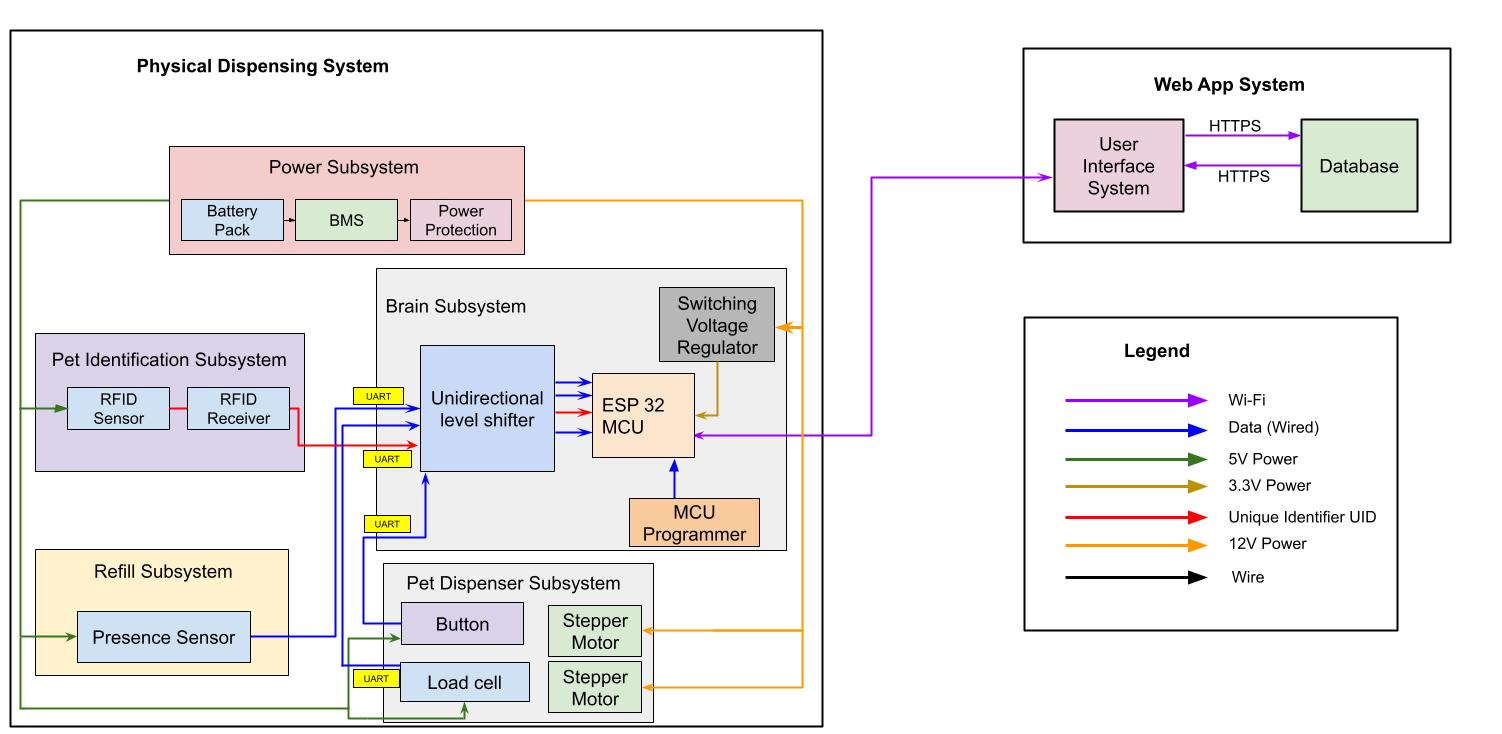
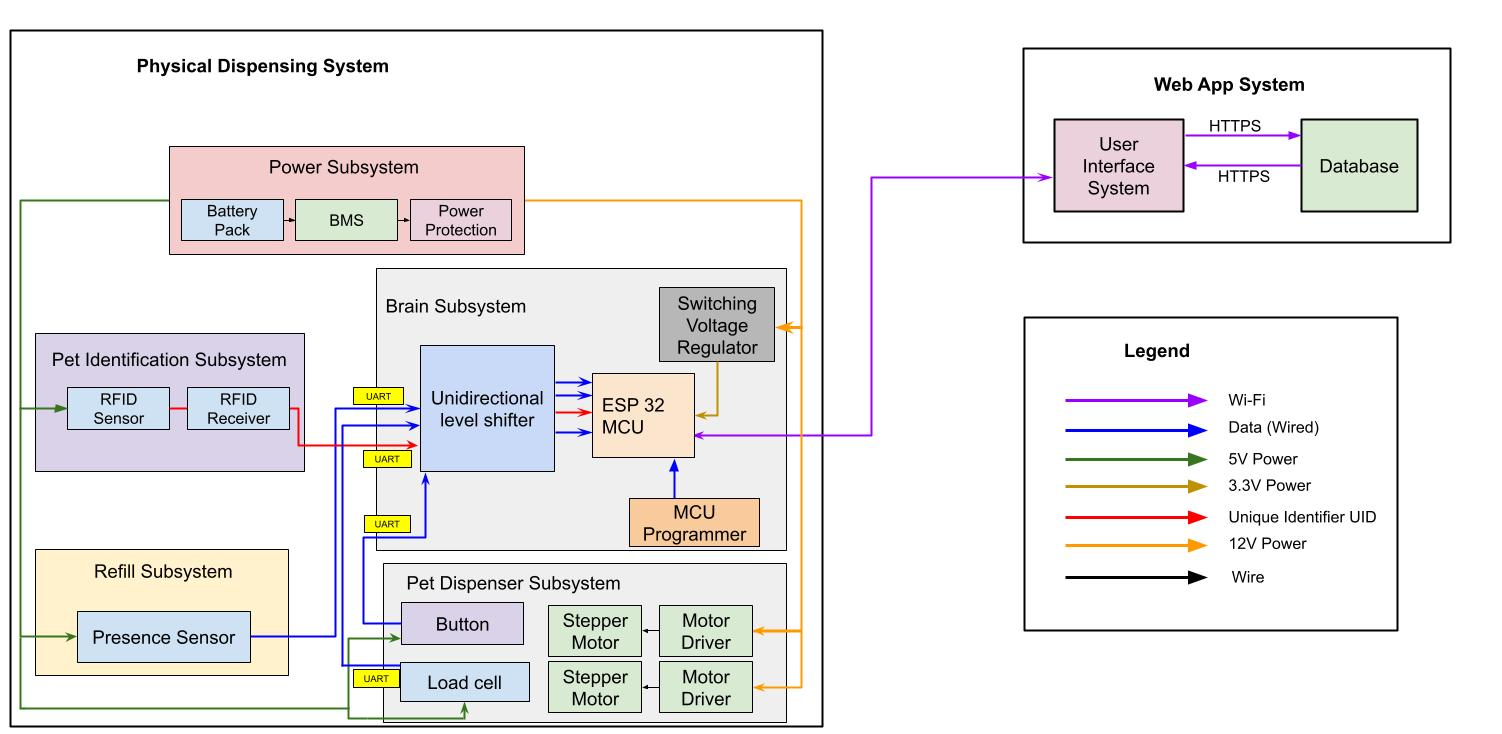
Updating plan for next week

Changed region(s): [[0.4288, 0.7493, 0.5513, 0.9891], [0.5206, 0.5995, 0.5513, 0.6294]]

diff --git a/Notebooks/omkar/omkar.md b/Notebooks/omkar/omkar.md
@@ -53,3 +53,15 @@ The statement of objective for this meeting is to prepare for the proposal revie
 We did not order the parts, but we did look into some more of the circuit design details. We didn't know that a level shifter was necessary to regulate voltage to the microcontroller at a signal level from the sensors. We also drastically improved our block diagram, made many changes to our proposal (essentially completing the proposal v2 assignment), and practiced presenting our proposal (Dry runs). We cut down on the fluff and the whole group got on the same page about some of our design choices and the aspects of the problem we are trying to solve.
 
 ![New Block Diagram](images/blockv2.png)
+
+# 02/24/2025
+
+The statement of objective for this meeting is to order the parts that Greg needs for helping us build our design. We are also hoping to order many of the other parts after determining which parts overlap with the supply shop inventory. In order to do this, we will need to look into the subcircuit design for the motor drivers. The custom battery pack cannot be built until OpenLab gets some new tips for their spot-welder which is necessary for spot-welding the nickel strips onto the lithium-ion cells.
+
+# 02/25/2025
+
+The statement of objective for this meeting is to finish ordering the parts and keep working on the physical design of the sensor and driver circuits.
+
+# 02/27/2025
+
+The statement of objective for this meeting is to start finalizing the circuit design aspects and get familiar with UART and RFID protocols.
